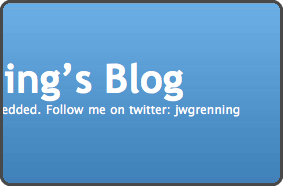
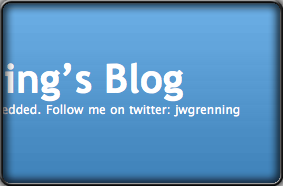
removed shadows from the headers, changed the background color and images below the main images, changed the main images to  have drop shadows inside of them

Changed region(s): [[0.0, 0.0, 1.0, 1.0]]

diff --git a/public/stylesheets/custom.css b/public/stylesheets/custom.css
@@ -21,21 +21,13 @@ li {
 
 h1 {
   height: 1.0em;
-  filter: Shadow(Color=#555555,   
-  Direction=160, 
-  Strength=5);
   padding-top: 10px;
   padding-bottom: 0px;
-  text-shadow: #555555 4px 4px 3px;
   font: normal normal normal 4.8em/normal Arial, Times, serif;
 }
 
 h2 {
   height: 1em;
-  filter: Shadow(Color=#494949,   
-  Direction=160, 
-  Strength=5);
-  text-shadow: #494949 3px 3px 3px;
   color: #FFF;
   /*color: #2d5824; */
   font: normal normal normal 2em/normal Arial, Times, serif;
@@ -46,30 +38,18 @@ h2 {
 #bookHeader{
   padding-bottom: 10px;
   margin-bottom: 12px;
-  filter: Shadow(Color=#8C1717,   
-  Direction=160, 
-  Strength=5);
-  text-shadow: #8C1717 3px 3px 3px;
   border-bottom: 3px solid #4C0707;
 }
 
 #blogHeader{
   padding-bottom: 10px;
   margin-bottom: 12px;
-  filter: Shadow(Color=#61B329,   
-  Direction=160, 
-  Strength=5);
-  text-shadow: #61B329 3px 3px 3px;
   border-bottom: 3px solid #417309;
 }
 
 #websiteHeader{
   padding-bottom: 10px;
   margin-bottom: 12px;
-  filter: Shadow(Color=#836FFF,   
-  Direction=160, 
-  Strength=5);
-  text-shadow: #836FFF 3px 3px 3px;
   border-bottom: 3px solid #433F9F;
 }
 
@@ -79,10 +59,6 @@ h2 {
 
 h3 {
   height: 1em;
-  filter: Shadow(Color=#242424,   
-  Direction=160, 
-  Strength=5);
-  text-shadow: #242424 5px 5px 5px;
   color: #e0e0b8;
   font: normal normal normal 1.5em/normal Georgia, Times, serif;
 }
@@ -122,8 +98,23 @@ body {
   margin-left: 15px;
 }
 
+.redBorder {
+  border-left: 2px solid #8B2023;
+  border-right: 2px solid #8B2023;
+}
+
+.purpleBorder {
+  border-left: 2px solid #532FAF;
+  border-right: 2px solid #532FAF;
+}
+
+.greenBorder {
+  border-left: 2px solid #417309;
+  border-right: 2px solid #417309;
+}
+
 .innerColumn p {
-  color: #DDD;
+  color: #222;
   padding-top: 10px;
   margin-left: 15px;
   margin-right: 15px;
@@ -143,6 +134,10 @@ body {
   background-color: #112311;
 }
 
+.white {
+  background-color: #FFF;
+}
+
 .red {
   background-color: #0D0000;
 }
@@ -157,6 +152,8 @@ body {
 
 .header-navigation {
   border-top: 3px solid #FFF;
+  border-left: 1px solid #FFF;
+  border-right: 1px solid #FFF;
   margin-right: 10px;
   position: relative;
   float: left;

diff --git a/public/javascripts/headerNavigation.js b/public/javascripts/headerNavigation.js
@@ -16,11 +16,6 @@ $(document).ready( function () {
 });
 
 function firstSwap(){
-  if(navigator.appName == 'Microsoft Internet Explorer'){
-    $("#bookThumbImage").animate({ top: '-=6'});
-    $("#blogThumbImage").animate({ top: '-=6'});
-    $("#websiteThumbImage").animate({ top: '-=6'});
-  }
   $("#bookThumbImage").css({ display: "none" });
   $("#blogThumbImage").css({ display: "none" });
   $("#websiteThumbImage").css({ display: "none" });
